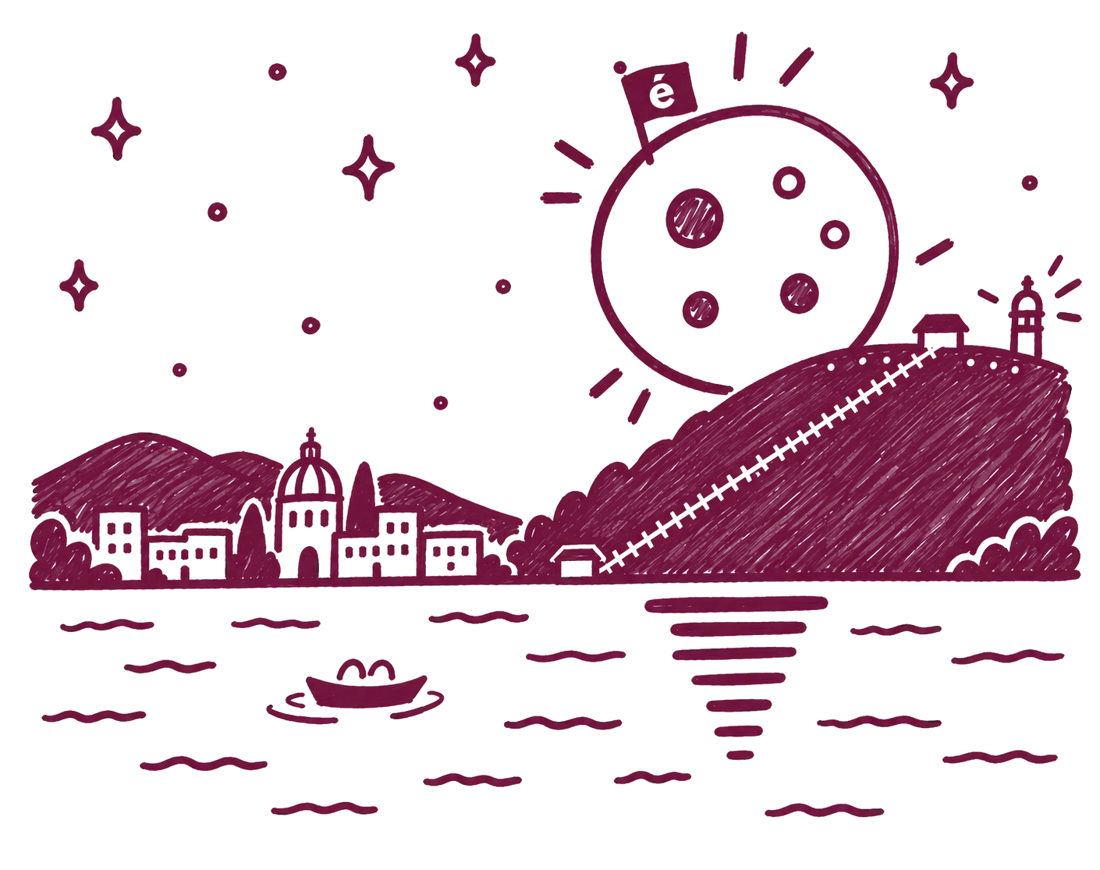
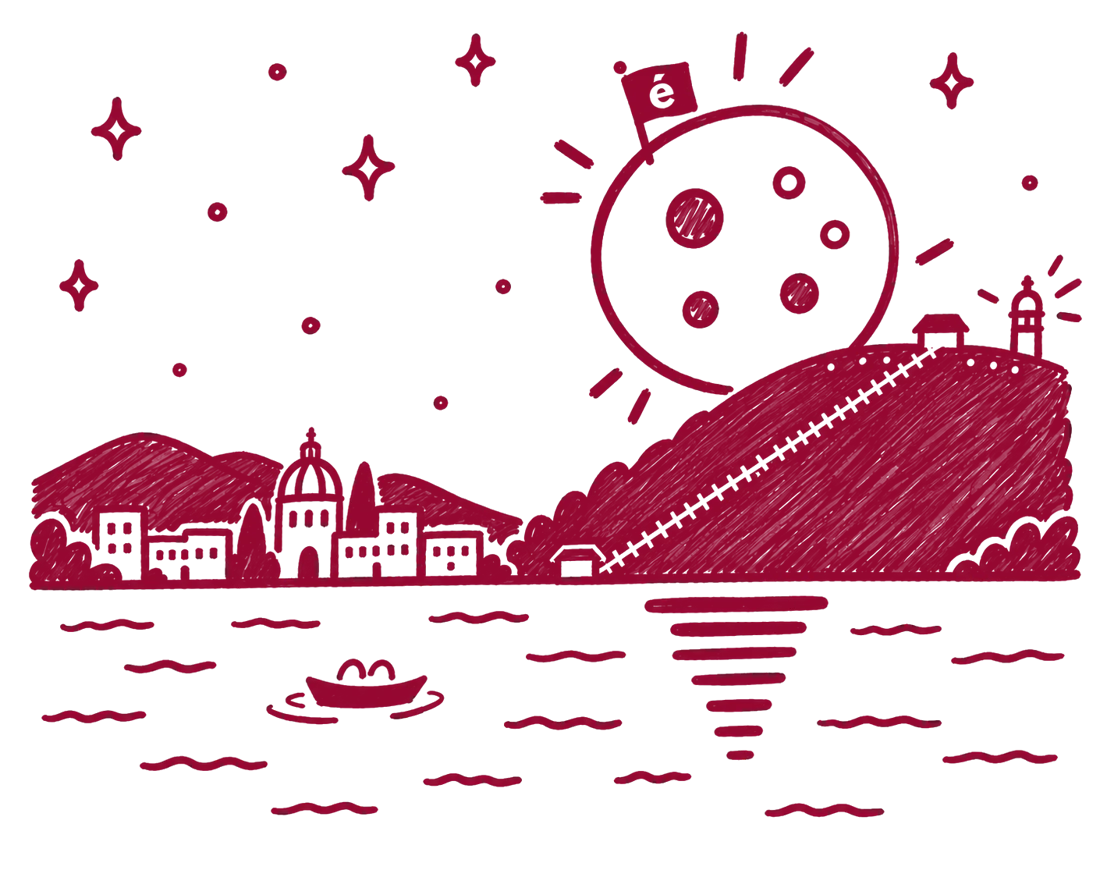
Il piano: apertura chiara con il disegno in rosso

diff --git a/app.js b/app.js
@@ -496,16 +496,16 @@
     const P = T.piano, M = P.missione;
     const pct = Math.min(100, FO.attuali / FO.obiettivo * 100);
     return `
-    <section class="page-hero s-navy piano-hero">
+    <section class="page-hero s-cream piano-hero">
       <div class="wrap hero-grid">
         <div>
           <p class="kicker">${P.hero.sopratitolo}</p>
-          <h1 class="h-hero h-cream">${P.hero.titolo}</h1>
+          <h1 class="h-hero">${P.hero.titolo}</h1>
           <p class="h-hero pink">${P.hero.titolo2}</p>
           <p class="lead">${md(P.hero.testo)}</p>
           <div class="ctas">${btn(P.hero.bottone)}${btn(P.hero.bottone2, "btn-ghost")}</div>
         </div>
-        <img class="hero-illo piano-illo" src="img/ill/luna-perla.webp" alt="La luna con la bandiera di Inséma sopra Brunate, la funicolare e il lago di Como">
+        <img class="hero-illo piano-illo" src="img/ill/luna-vino.webp?v=202611231934" alt="La luna con la bandiera di Inséma sopra Brunate, la funicolare e il lago di Como">
       </div>
     </section>
 

diff --git a/programma-sviluppo.html b/programma-sviluppo.html
@@ -9,13 +9,13 @@
 <link rel="preconnect" href="https://fonts.googleapis.com">
 <link rel="preconnect" href="https://fonts.gstatic.com" crossorigin>
 <link href="https://fonts.googleapis.com/css2?family=Bowlby+One&family=Roboto:ital,wght@0,400;0,500;0,700;0,900;1,400&display=swap" rel="stylesheet">
-<link rel="stylesheet" href="style.css?v=202611231933">
+<link rel="stylesheet" href="style.css?v=202611231934">
 </head>
 <!-- I testi di questa pagina sono in testi.js -->
 <body data-page="tema" data-tema="sviluppo">
 <div id="app"></div>
 <noscript>Per vedere il sito attiva JavaScript.</noscript>
-<script src="testi.js?v=202611231933"></script>
-<script src="app.js?v=202611231933"></script>
+<script src="testi.js?v=202611231934"></script>
+<script src="app.js?v=202611231934"></script>
 </body>
 </html>

diff --git a/programma-servizi.html b/programma-servizi.html
@@ -9,13 +9,13 @@
 <link rel="preconnect" href="https://fonts.googleapis.com">
 <link rel="preconnect" href="https://fonts.gstatic.com" crossorigin>
 <link href="https://fonts.googleapis.com/css2?family=Bowlby+One&family=Roboto:ital,wght@0,400;0,500;0,700;0,900;1,400&display=swap" rel="stylesheet">
-<link rel="stylesheet" href="style.css?v=202611231933">
+<link rel="stylesheet" href="style.css?v=202611231934">
 </head>
 <!-- I testi di questa pagina sono in testi.js -->
 <body data-page="tema" data-tema="servizi">
 <div id="app"></div>
 <noscript>Per vedere il sito attiva JavaScript.</noscript>
-<script src="testi.js?v=202611231933"></script>
-<script src="app.js?v=202611231933"></script>
+<script src="testi.js?v=202611231934"></script>
+<script src="app.js?v=202611231934"></script>
 </body>
 </html>

diff --git a/programma-lavoro.html b/programma-lavoro.html
@@ -9,13 +9,13 @@
 <link rel="preconnect" href="https://fonts.googleapis.com">
 <link rel="preconnect" href="https://fonts.gstatic.com" crossorigin>
 <link href="https://fonts.googleapis.com/css2?family=Bowlby+One&family=Roboto:ital,wght@0,400;0,500;0,700;0,900;1,400&display=swap" rel="stylesheet">
-<link rel="stylesheet" href="style.css?v=202611231933">
+<link rel="stylesheet" href="style.css?v=202611231934">
 </head>
 <!-- I testi di questa pagina sono in testi.js -->
 <body data-page="tema" data-tema="lavoro">
 <div id="app"></div>
 <noscript>Per vedere il sito attiva JavaScript.</noscript>
-<script src="testi.js?v=202611231933"></script>
-<script src="app.js?v=202611231933"></script>
+<script src="testi.js?v=202611231934"></script>
+<script src="app.js?v=202611231934"></script>
 </body>
 </html>

diff --git a/programma-conti.html b/programma-conti.html
@@ -9,13 +9,13 @@
 <link rel="preconnect" href="https://fonts.googleapis.com">
 <link rel="preconnect" href="https://fonts.gstatic.com" crossorigin>
 <link href="https://fonts.googleapis.com/css2?family=Bowlby+One&family=Roboto:ital,wght@0,400;0,500;0,700;0,900;1,400&display=swap" rel="stylesheet">
-<link rel="stylesheet" href="style.css?v=202611231933">
+<link rel="stylesheet" href="style.css?v=202611231934">
 </head>
 <!-- I testi di questa pagina sono in testi.js -->
 <body data-page="tema" data-tema="conti">
 <div id="app"></div>
 <noscript>Per vedere il sito attiva JavaScript.</noscript>
-<script src="testi.js?v=202611231933"></script>
-<script src="app.js?v=202611231933"></script>
+<script src="testi.js?v=202611231934"></script>
+<script src="app.js?v=202611231934"></script>
 </body>
 </html>

diff --git a/programma-casa.html b/programma-casa.html
@@ -9,13 +9,13 @@
 <link rel="preconnect" href="https://fonts.googleapis.com">
 <link rel="preconnect" href="https://fonts.gstatic.com" crossorigin>
 <link href="https://fonts.googleapis.com/css2?family=Bowlby+One&family=Roboto:ital,wght@0,400;0,500;0,700;0,900;1,400&display=swap" rel="stylesheet">
-<link rel="stylesheet" href="style.css?v=202611231933">
+<link rel="stylesheet" href="style.css?v=202611231934">
 </head>
 <!-- I testi di questa pagina sono in testi.js -->
 <body data-page="tema" data-tema="casa">
 <div id="app"></div>
 <noscript>Per vedere il sito attiva JavaScript.</noscript>
-<script src="testi.js?v=202611231933"></script>
-<script src="app.js?v=202611231933"></script>
+<script src="testi.js?v=202611231934"></script>
+<script src="app.js?v=202611231934"></script>
 </body>
 </html>

diff --git a/chi-siamo.html b/chi-siamo.html
@@ -9,13 +9,13 @@
 <link rel="preconnect" href="https://fonts.googleapis.com">
 <link rel="preconnect" href="https://fonts.gstatic.com" crossorigin>
 <link href="https://fonts.googleapis.com/css2?family=Bowlby+One&family=Roboto:ital,wght@0,400;0,500;0,700;0,900;1,400&display=swap" rel="stylesheet">
-<link rel="stylesheet" href="style.css?v=202611231933">
+<link rel="stylesheet" href="style.css?v=202611231934">
 </head>
 <!-- I testi di questa pagina sono in testi.js -->
 <body data-page="chi-siamo">
 <div id="app"></div>
 <noscript>Per vedere il sito attiva JavaScript.</noscript>
-<script src="testi.js?v=202611231933"></script>
-<script src="app.js?v=202611231933"></script>
+<script src="testi.js?v=202611231934"></script>
+<script src="app.js?v=202611231934"></script>
 </body>
 </html>

diff --git a/manifesto.html b/manifesto.html
@@ -9,13 +9,13 @@
 <link rel="preconnect" href="https://fonts.googleapis.com">
 <link rel="preconnect" href="https://fonts.gstatic.com" crossorigin>
 <link href="https://fonts.googleapis.com/css2?family=Bowlby+One&family=Roboto:ital,wght@0,400;0,500;0,700;0,900;1,400&display=swap" rel="stylesheet">
-<link rel="stylesheet" href="style.css?v=202611231933">
+<link rel="stylesheet" href="style.css?v=202611231934">
 </head>
 <!-- I testi di questa pagina sono in testi.js -->
 <body data-page="manifesto">
 <div id="app"></div>
 <noscript>Per vedere il sito attiva JavaScript.</noscript>
-<script src="testi.js?v=202611231933"></script>
-<script src="app.js?v=202611231933"></script>
+<script src="testi.js?v=202611231934"></script>
+<script src="app.js?v=202611231934"></script>
 </body>
 </html>

diff --git a/programma.html b/programma.html
@@ -9,13 +9,13 @@
 <link rel="preconnect" href="https://fonts.googleapis.com">
 <link rel="preconnect" href="https://fonts.gstatic.com" crossorigin>
 <link href="https://fonts.googleapis.com/css2?family=Bowlby+One&family=Roboto:ital,wght@0,400;0,500;0,700;0,900;1,400&display=swap" rel="stylesheet">
-<link rel="stylesheet" href="style.css?v=202611231933">
+<link rel="stylesheet" href="style.css?v=202611231934">
 </head>
 <!-- I testi di questa pagina sono in testi.js -->
 <body data-page="programma">
 <div id="app"></div>
 <noscript>Per vedere il sito attiva JavaScript.</noscript>
-<script src="testi.js?v=202611231933"></script>
-<script src="app.js?v=202611231933"></script>
+<script src="testi.js?v=202611231934"></script>
+<script src="app.js?v=202611231934"></script>
 </body>
 </html>

diff --git a/aiutaci.html b/aiutaci.html
@@ -9,13 +9,13 @@
 <link rel="preconnect" href="https://fonts.googleapis.com">
 <link rel="preconnect" href="https://fonts.gstatic.com" crossorigin>
 <link href="https://fonts.googleapis.com/css2?family=Bowlby+One&family=Roboto:ital,wght@0,400;0,500;0,700;0,900;1,400&display=swap" rel="stylesheet">
-<link rel="stylesheet" href="style.css?v=202611231933">
+<link rel="stylesheet" href="style.css?v=202611231934">
 </head>
 <!-- I testi di questa pagina sono in testi.js -->
 <body data-page="aiutaci">
 <div id="app"></div>
 <noscript>Per vedere il sito attiva JavaScript.</noscript>
-<script src="testi.js?v=202611231933"></script>
-<script src="app.js?v=202611231933"></script>
+<script src="testi.js?v=202611231934"></script>
+<script src="app.js?v=202611231934"></script>
 </body>
 </html>

diff --git a/piano.html b/piano.html
@@ -9,13 +9,13 @@
 <link rel="preconnect" href="https://fonts.googleapis.com">
 <link rel="preconnect" href="https://fonts.gstatic.com" crossorigin>
 <link href="https://fonts.googleapis.com/css2?family=Bowlby+One&family=Roboto:ital,wght@0,400;0,500;0,700;0,900;1,400&display=swap" rel="stylesheet">
-<link rel="stylesheet" href="style.css?v=202611231933">
+<link rel="stylesheet" href="style.css?v=202611231934">
 </head>
 <!-- I testi di questa pagina sono in testi.js -->
 <body data-page="piano">
 <div id="app"></div>
 <noscript>Per vedere il sito attiva JavaScript.</noscript>
-<script src="testi.js?v=202611231933"></script>
-<script src="app.js?v=202611231933"></script>
+<script src="testi.js?v=202611231934"></script>
+<script src="app.js?v=202611231934"></script>
 </body>
 </html>

diff --git a/index.html b/index.html
@@ -9,13 +9,13 @@
 <link rel="preconnect" href="https://fonts.googleapis.com">
 <link rel="preconnect" href="https://fonts.gstatic.com" crossorigin>
 <link href="https://fonts.googleapis.com/css2?family=Bowlby+One&family=Roboto:ital,wght@0,400;0,500;0,700;0,900;1,400&display=swap" rel="stylesheet">
-<link rel="stylesheet" href="style.css?v=202611231933">
+<link rel="stylesheet" href="style.css?v=202611231934">
 </head>
 <!-- I testi di questa pagina sono in testi.js -->
 <body data-page="home">
 <div id="app"></div>
 <noscript>Per vedere il sito attiva JavaScript.</noscript>
-<script src="testi.js?v=202611231933"></script>
-<script src="app.js?v=202611231933"></script>
+<script src="testi.js?v=202611231934"></script>
+<script src="app.js?v=202611231934"></script>
 </body>
 </html>
